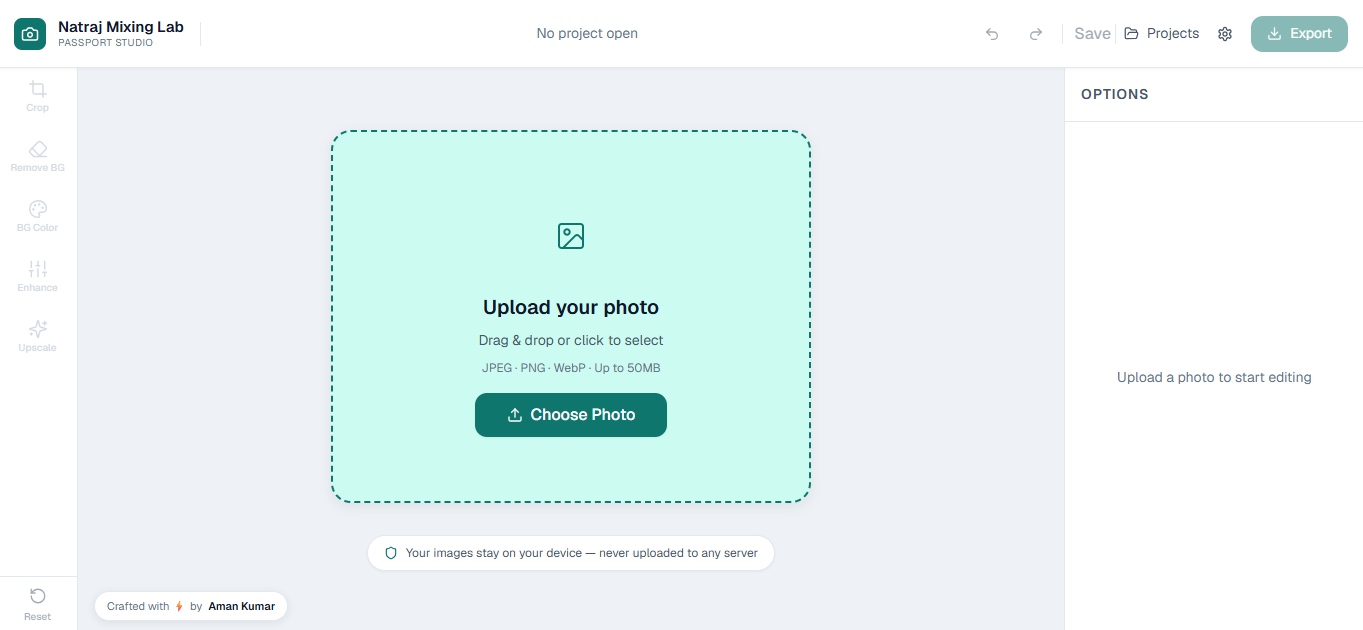
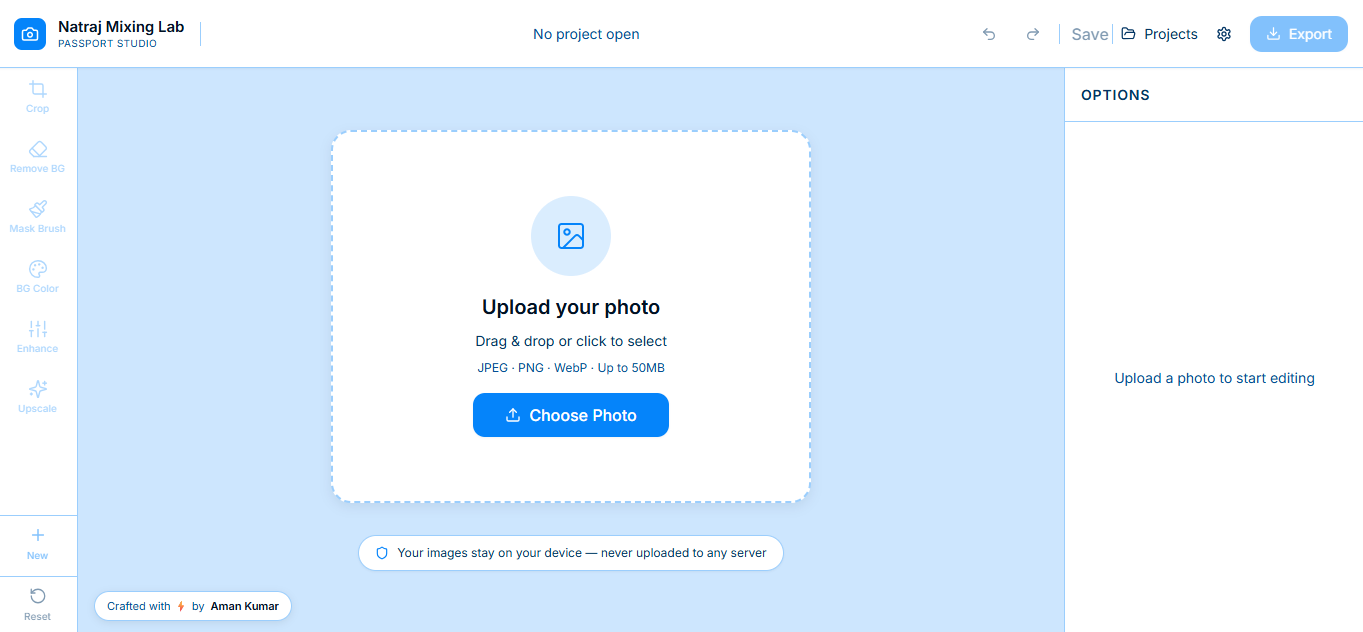
readme updated

diff --git a/README.md b/README.md
@@ -27,10 +27,12 @@ Unlike traditional photo editors, **everything runs 100% locally in your browser
 
 - 🔒 **Absolute Privacy**: All image processing (including AI background removal and upscaling) happens locally on the user's device.
 - ✂️ **AI Background Removal**: Automatically separates the subject from the background using the highly accurate `@imgly/background-removal` WASM model.
+- 🖌️ **Magic Eraser & Restore**: Clean up stubborn background residue or restore accidentally removed parts with a dynamic, pixel-perfect brush tool (supports up to 500% zoom).
 - 🎨 **Passport Color Presets**: Instantly apply standard background colors (White, Light Blue, Cream, Grey) with a custom hex picker.
 - 🖼️ **AI Image Upscaling (Super Resolution)**: Uses TensorFlow.js (`upscaler`) to enhance and double the resolution of low-quality photos without losing detail.
 - 📐 **Smart Cropping & Transforms**: Pre-configured aspect ratios (e.g., 35x45mm Passport, 2x2 US Passport, Square) with flawless rotation and flipping capabilities.
 - 🎛️ **Advanced Pixel Enhancements**: Granular control over Brightness, Contrast, Saturation, Sharpness, Highlights, and Shadows.
+- 🌓 **Premium Theming**: Includes a meticulously crafted Light Mode and a deep "Dodger Blue" Dark Mode for professional grading in any environment.
 - 📱 **Fully Mobile Responsive**: Features a specialized, stacked scrollable layout that perfectly adapts to phones and tablets without overlapping UI.
 - ↩️ **Time-Travel Undo/Redo**: Full state history management powered by `zustand` and `zundo`.
 - 💾 **Local Workspace Saving**: Saves your working projects to IndexedDB so you can resume editing after closing the browser.
@@ -42,8 +44,7 @@ Because this application handles personal identification photos, it was architec
 1. **Absolute Data Privacy**: There is no backend API, no database, and no cloud storage. Images literally never leave the user's computer.
 2. **Local Storage (IndexedDB) Sandboxing**: User states and images are saved purely in the browser's IndexedDB. This data is strictly sandboxed by the browser and cannot be accessed by other websites.
 3. **Immunity to Traditional Hacks**: Because there is no backend server processing user data, the application is mathematically immune to SQL injections, Server-Side Request Forgery (SSRF), and massive data breaches.
-4. **XSS Protection**: Built on React 19, the UI naturally escapes DOM inputs, preventing Cross-Site Scripting.
-5. **Cross-Origin Isolation**: By running advanced AI models via `SharedArrayBuffer`, the required production hosting headers (`Cross-Origin-Opener-Policy` and `Cross-Origin-Embedder-Policy`) place the app in a highly restricted environment, neutralizing advanced side-channel attacks like Spectre.
+4. **Isolated Web Workers**: AI inferences run on dedicated background threads to prevent UI freezing and ensure memory safety.
 
 ## 🚀 Tech Stack
 
@@ -90,9 +91,8 @@ To build the application for production deployment:
 npm run build
 ```
 
-The optimized static files will be generated in the `dist` directory. Since this is a fully static client-side application, you can host the `dist` folder on Vercel, Netlify, GitHub Pages, or any standard web server.
-
-> **Note:** Because this application uses `SharedArrayBuffer` and WebAssembly for the heavy AI models, ensure your production hosting environment is configured to serve the correct cross-origin isolation headers if you experience memory constraints:
+The optimized static files will be generated in the `dist` directory. 
+> **Note:** Because this application uses WebAssembly for the heavy AI models, ensure your production hosting environment is configured to serve the correct cross-origin isolation headers if you experience memory constraints:
 > - `Cross-Origin-Opener-Policy: same-origin`
 > - `Cross-Origin-Embedder-Policy: require-corp`
 
@@ -102,13 +102,14 @@ The optimized static files will be generated in the `dist` directory. Since this
 src/
 ├── app/          # Core app providers (ThemeProvider, ErrorBoundary)
 ├── components/   # Reusable UI components (Buttons, Sliders, Modals)
-├── core/         # Heavy-lifting core logic (CanvasRenderer, ImageProcessor)
+├── core/         # Heavy-lifting core logic (CanvasRenderer, ExportService)
 ├── features/     # Feature-based domains (Workspace, TopNavigation, Panels)
 ├── hooks/        # Custom React hooks (useCanvas, useViewport)
-├── stores/       # Zustand state management and undo/redo history
+├── stores/       # Zustand state management and zundo history middleware
 ├── styles/       # Global CSS and Tailwind entry points
 ├── types/        # TypeScript interfaces and global type definitions
-└── utils/        # Helper functions (class merging, file conversions)
+├── utils/        # Helper functions (class merging, file conversions)
+└── workers/      # Dedicated Web Workers for ML models (bgRemoval, upscaler)
 ```
 
 ## 🤝 Contributing